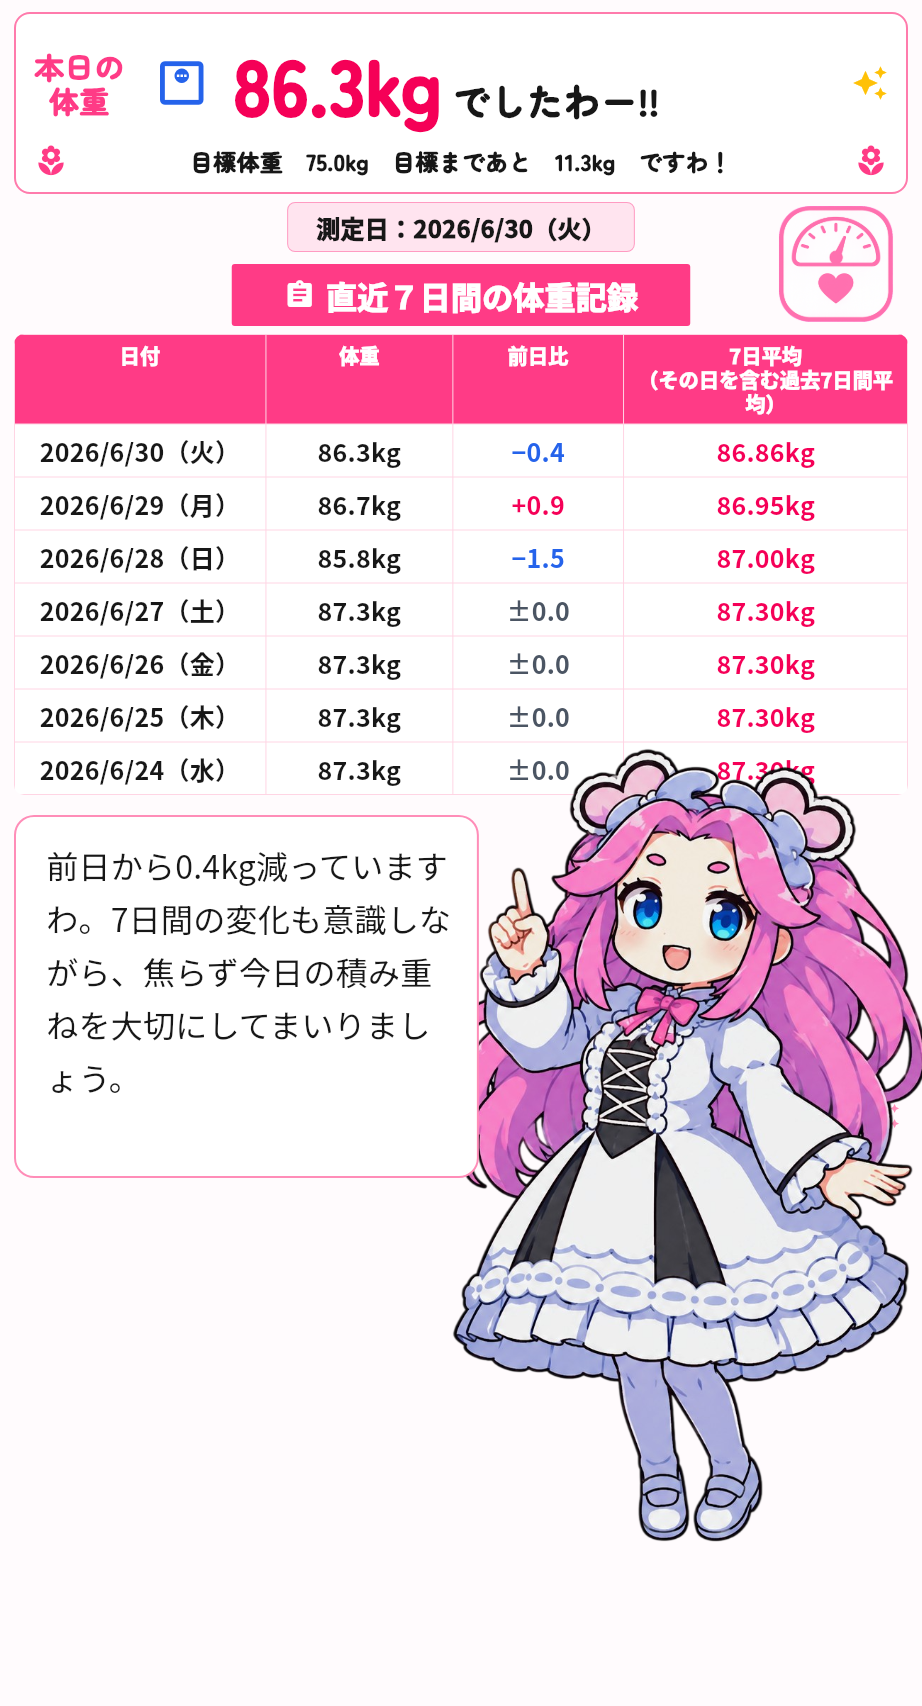
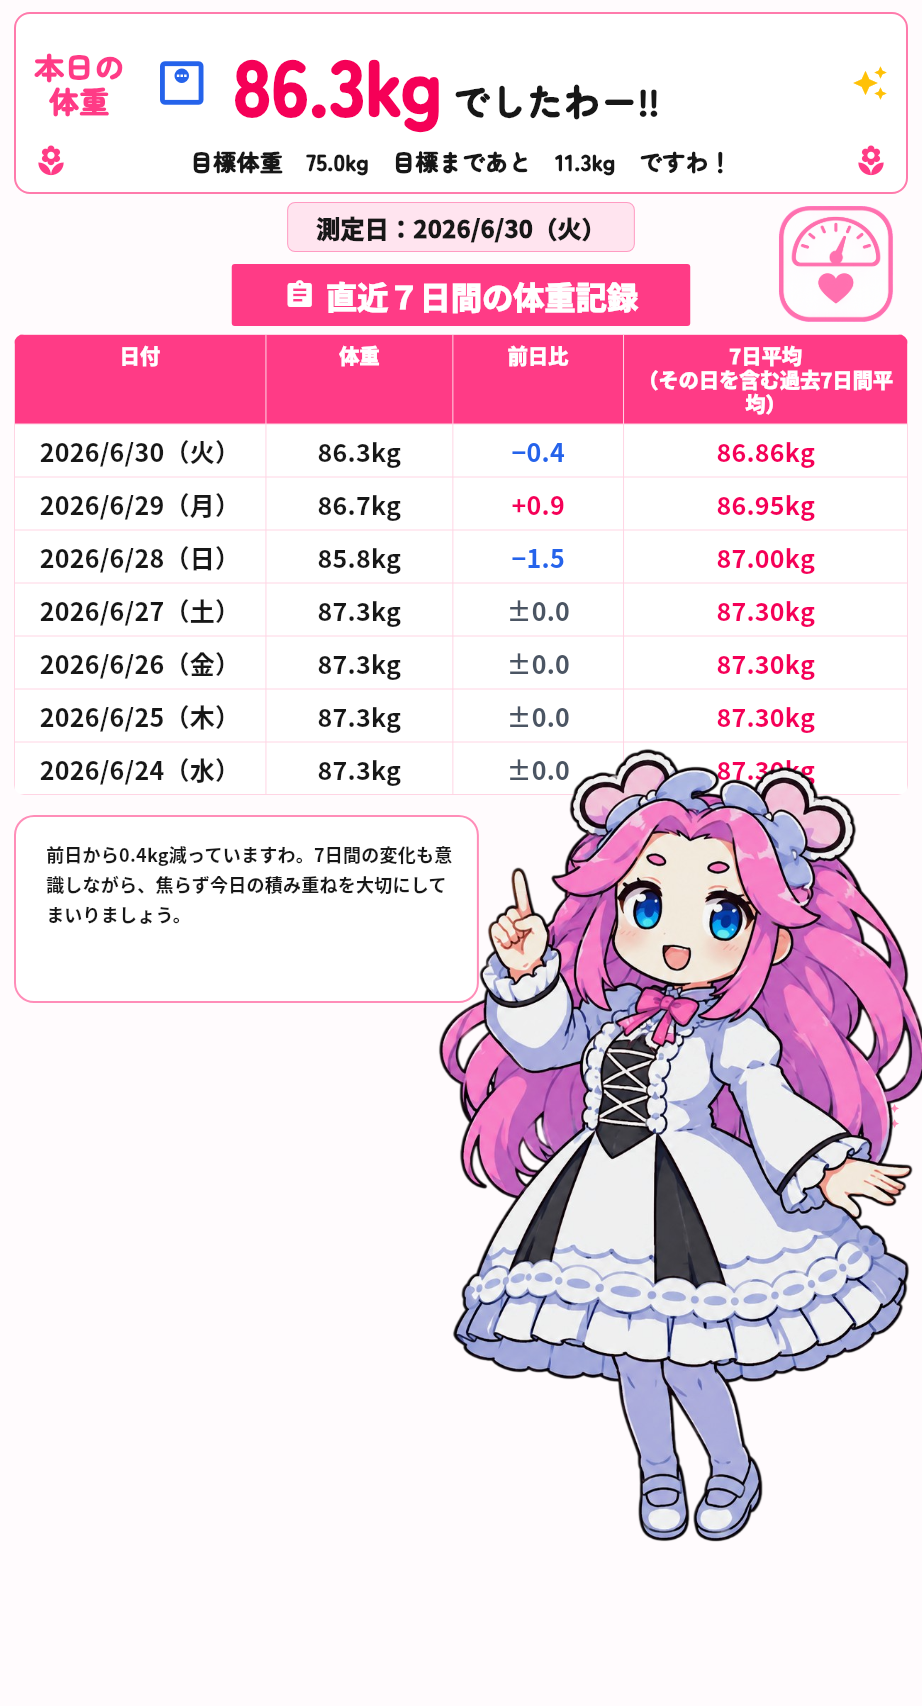
Style report character comment

Changed region(s): [[0.0304, 0.4971, 0.5163, 0.6835]]

diff --git a/test/home_screen_golden_test.dart b/test/home_screen_golden_test.dart
@@ -459,21 +459,21 @@ void main() {
           .widget<Text>(find.textContaining('前日から0.4kg減っていますわ'))
           .style
           ?.fontSize,
-      32,
+      18,
     );
     expect(
       tester
           .widget<Text>(find.textContaining('前日から0.4kg減っていますわ'))
           .style
           ?.fontWeight,
-      FontWeight.w400,
+      FontWeight.w600,
     );
     expect(
       tester
           .widget<Text>(find.textContaining('前日から0.4kg減っていますわ'))
           .style
           ?.fontFamily,
-      isNull,
+      appFontFamily,
     );
     expect(find.textContaining('毎日の積み重ねが'), findsNothing);
     expect(find.textContaining('目標まであと'), findsOneWidget);

diff --git a/lib/screens/report_screen.dart b/lib/screens/report_screen.dart
@@ -525,9 +525,10 @@ class _ViewerMessagePanel extends StatelessWidget {
       child: Text(
         aiComment,
         style: TextStyle(
-          fontSize: 32 * scale,
+          fontFamily: appFontFamily,
+          fontSize: 18 * scale,
           height: 1.65,
-          fontWeight: FontWeight.w400,
+          fontWeight: FontWeight.w600,
         ),
       ),
     );
